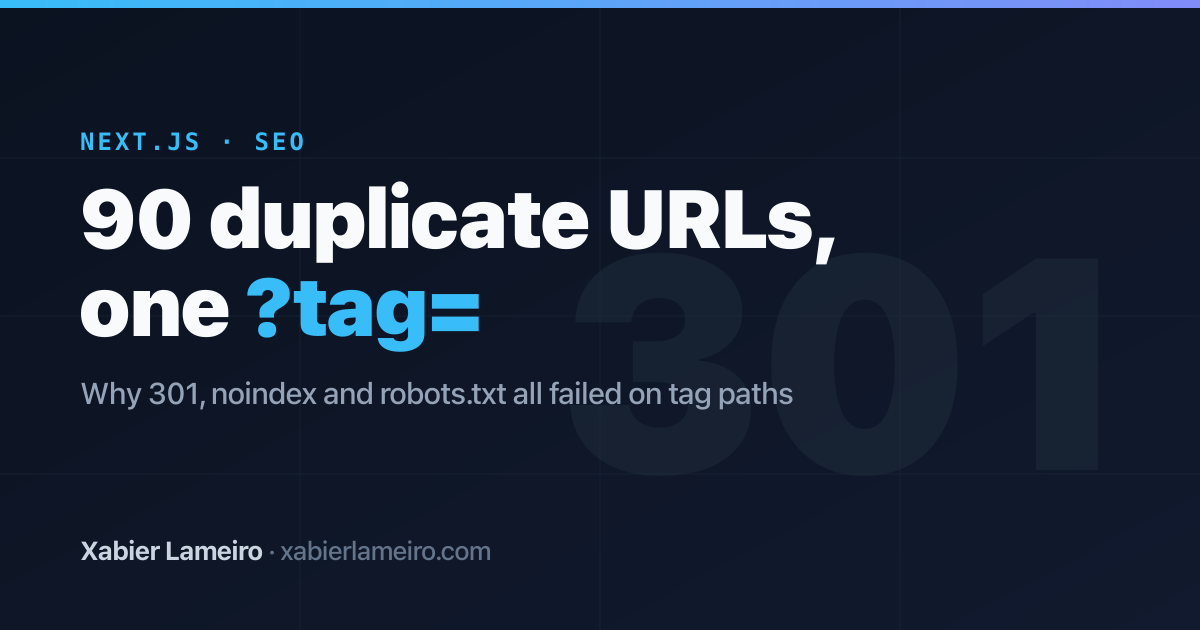
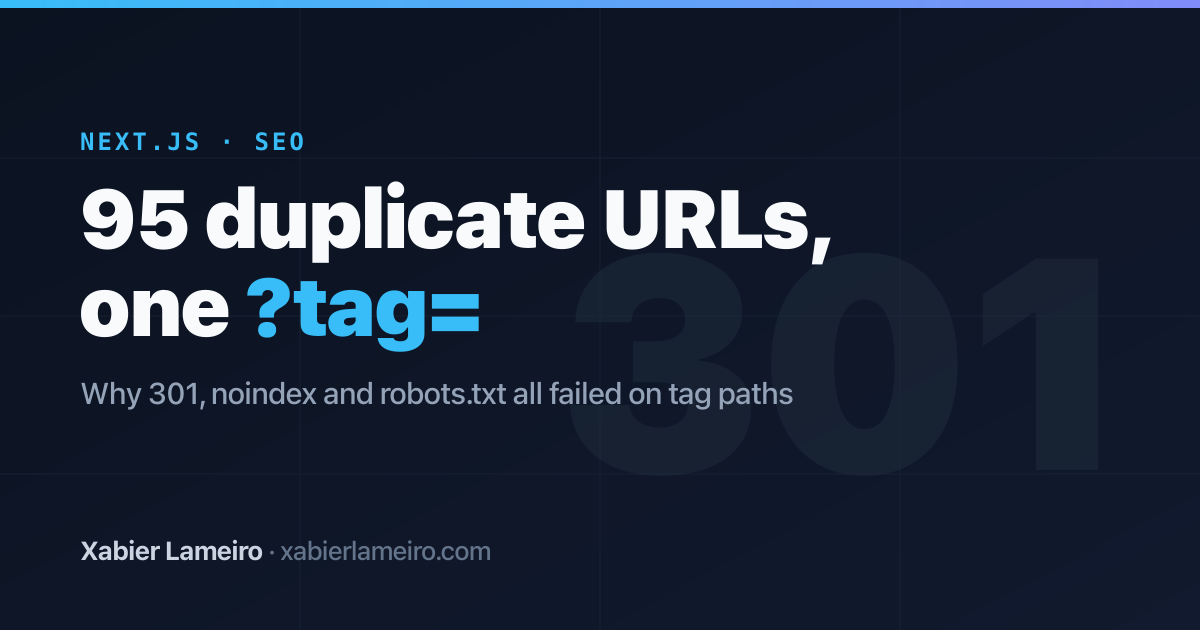
docs(blog): publish the tag facet URLs post with its measured result
The Results section was the only thing blocking this post, and it now reports a
negative measurement instead of the comparison it was going to make.

The facet impressions the post planned to compare had already been flat at zero
since 25 July 2026, two months before the change shipped: the 107 impressions in
the 90-day baseline were a single six-day burst in July. Reporting "107 to 0"
would have been true and misleading, so the post says that instead.

Both facet URLs were last crawled on 5 September and 18 July, before the
redirects existed, so Google has not seen them yet and the index state is
unchanged.

Also corrects the counts against the current data: 95 duplicate URLs (35 en,
30 es, 30 gl) and 229 impressions across the 10 facet URLs that appeared in
Search Console over the 90-day window, and regenerates the poster for the new
headline number.

Changed region(s): [[0.0925, 0.2714, 0.7092, 0.4222]]

diff --git a/scripts/generate-post-posters.ts b/scripts/generate-post-posters.ts
@@ -212,7 +212,7 @@ const posts: Poster[] = [
     {
         file: 'tag-facet-urls-query-parameter.png',
         eyebrow: 'NEXT.JS · SEO',
-        line1: '90 duplicate URLs,',
+        line1: '95 duplicate URLs,',
         line2: 'one ',
         accentWord: '?tag=',
         subhead: 'Why 301, noindex and robots.txt all failed on tag paths',

diff --git a/docs/editorial-policy.md b/docs/editorial-policy.md
@@ -49,8 +49,7 @@ the English URL (pinned by `src/__test__/singleLocalePost.test.tsx`).
 ## 4. Frontmatter limits
 
 `prebuild` runs `scripts/check-frontmatter`. For posts whose `<Date>` is on or after the policy
-date, the build fails on a missing field, a `title` over 60 characters or a `description` over
-155. Older posts only warn.
+date, the build fails on a missing field, a `title` over 60 characters or a `description` over 155. Older posts only warn.
 
 ## 5. Measurement
 
@@ -65,21 +64,21 @@ Every published post gets two readings, written into its calendar row:
 Cadence: 1–2 posts a month (owner decision, 2026-07-18). The order follows data availability, not
 topic appeal: a post is never scheduled before its data exists.
 
-| # | Working title | Source material | Data available | Gate (1·2·3·4) |
-| --- | --- | --- | --- | --- |
-| 1 | GA4 cannot see most visitors on a small site with Consent Mode v2. Drafted 2026-09-18 as `data/blog/ga4-consent-mode-small-site` ("GA4 saw 12 of my 23 Google clicks. Where did the rest go?"), committed after owner review. Measured gap is about half, not "most": 23 GSC clicks vs 12 GA4 `google / organic` sessions, 19 Aug–15 Sep 2026; GA4 Reporting identity says modeling is not available | `_app.tsx` consent defaults; GSC clicks vs GA4 sessions for the same 28-day window; Vercel visit counts if live | Now | pass · pass (the answer is the size of the gap on a real site, not the fact that one exists) · pass · pass |
-| 2 | A blog route went from 32 s to 1.6 s: the O(N²) loader behind a Vercel 504. Drafted 2026-09-18 as `data/blog/quadratic-mdx-loader-vercel-504` ("One page, 32,800 file reads: the O(N²) behind a Vercel 504"), committed after owner review | SDD-012 measurements, PR #132; read-count benchmark of `99ea971` vs `7f9519a` at 39/78/117 files | Now | pass · pass · pass · pass (the 504 is the symptom, the post is the profiling) |
-| 3 | Why a path-segment facet cannot be redirected, noindexed or disallowed. Drafted 2026-09-18 without results as `data/blog/tag-facet-urls-query-parameter` (owner's choice); its Results section is marked PENDING and blocks publishing | SDD-009, PRs #186 / #189, result of `tag-facets-as-query-param` | After that change ships | pass · pass · pass · pass |
-| 4 | I let every AI crawler in and published llms.txt: what they took and what they sent back | `measure-real-traffic` data, 28 days minimum. Baseline read 2026-09-18 in GA4 (property 348472560), 18 Jul–17 Sep 2026, since llms.txt and the AI-crawler policy shipped (#133): 3 sessions referred by AI assistants (perplexity.ai 2, claude.ai 1, chatgpt.com 0) of 1,244. Consented visitors only; no crawler-hit data exists before that change ships | 28 days after that change reaches production | pass · pass · pass · pass (blocked on data) |
+| #   | Working title                                                                                                                                                                                                                                                                                                                                                                                                                                                     | Source material                                                                                                                                                                                                                                                                                                                                            | Data available                               | Gate (1·2·3·4)                                                                                             |
+| --- | ----------------------------------------------------------------------------------------------------------------------------------------------------------------------------------------------------------------------------------------------------------------------------------------------------------------------------------------------------------------------------------------------------------------------------------------------------------------- | ---------------------------------------------------------------------------------------------------------------------------------------------------------------------------------------------------------------------------------------------------------------------------------------------------------------------------------------------------------- | -------------------------------------------- | ---------------------------------------------------------------------------------------------------------- |
+| 1   | GA4 cannot see most visitors on a small site with Consent Mode v2. Drafted 2026-09-18 as `data/blog/ga4-consent-mode-small-site` ("GA4 saw 12 of my 23 Google clicks. Where did the rest go?"), committed after owner review. Measured gap is about half, not "most": 23 GSC clicks vs 12 GA4 `google / organic` sessions, 19 Aug–15 Sep 2026; GA4 Reporting identity says modeling is not available                                                              | `_app.tsx` consent defaults; GSC clicks vs GA4 sessions for the same 28-day window; Vercel visit counts if live                                                                                                                                                                                                                                            | Now                                          | pass · pass (the answer is the size of the gap on a real site, not the fact that one exists) · pass · pass |
+| 2   | A blog route went from 32 s to 1.6 s: the O(N²) loader behind a Vercel 504. Drafted 2026-09-18 as `data/blog/quadratic-mdx-loader-vercel-504` ("One page, 32,800 file reads: the O(N²) behind a Vercel 504"), committed after owner review                                                                                                                                                                                                                        | SDD-012 measurements, PR #132; read-count benchmark of `99ea971` vs `7f9519a` at 39/78/117 files                                                                                                                                                                                                                                                           | Now                                          | pass · pass · pass · pass (the 504 is the symptom, the post is the profiling)                              |
+| 3   | Why a path-segment facet cannot be redirected, noindexed or disallowed. Drafted 2026-09-18 as `data/blog/tag-facet-urls-query-parameter`; Results written 2026-09-23 and no longer blocking. The measurement is a negative one and the post says so: the facet impressions it was going to compare had already been flat at zero since 25 July, and the facet URLs' last crawls (5 Sep, 18 Jul) both predate the change, so Google has not seen the redirects yet | SDD-009, PRs #186 / #189, result of `tag-facets-as-query-param` (live 18–19 Sep 2026, #214 / #215 / #217)                                                                                                                                                                                                                                                  | Now                                          | pass · pass · pass · pass                                                                                  |
+| 4   | I let every AI crawler in and published llms.txt: what they took and what they sent back                                                                                                                                                                                                                                                                                                                                                                          | `measure-real-traffic` data, 28 days minimum. Baseline read 2026-09-18 in GA4 (property 348472560), 18 Jul–17 Sep 2026, since llms.txt and the AI-crawler policy shipped (#133): 3 sessions referred by AI assistants (perplexity.ai 2, claude.ai 1, chatgpt.com 0) of 1,244. Consented visitors only; no crawler-hit data exists before that change ships | 28 days after that change reaches production | pass · pass · pass · pass (blocked on data)                                                                |
 
 Readings (fill in as each post goes live):
 
-| # | Published | Day 14 (clicks · impr · CTR · pos · visits) | Day 28 (clicks · impr · CTR · pos · visits) | Keep the format? |
-| --- | --- | --- | --- | --- |
-| 1 | | | | |
-| 2 | | | | |
-| 3 | | | | |
-| 4 | | | | |
+| #   | Published | Day 14 (clicks · impr · CTR · pos · visits) | Day 28 (clicks · impr · CTR · pos · visits) | Keep the format? |
+| --- | --------- | ------------------------------------------- | ------------------------------------------- | ---------------- |
+| 1   |           |                                             |                                             |                  |
+| 2   |           |                                             |                                             |                  |
+| 3   |           |                                             |                                             |                  |
+| 4   |           |                                             |                                             |                  |
 
 Each post goes through: gate recorded → draft → owner review → publish `en` only →
 day-14 and day-28 readings.
